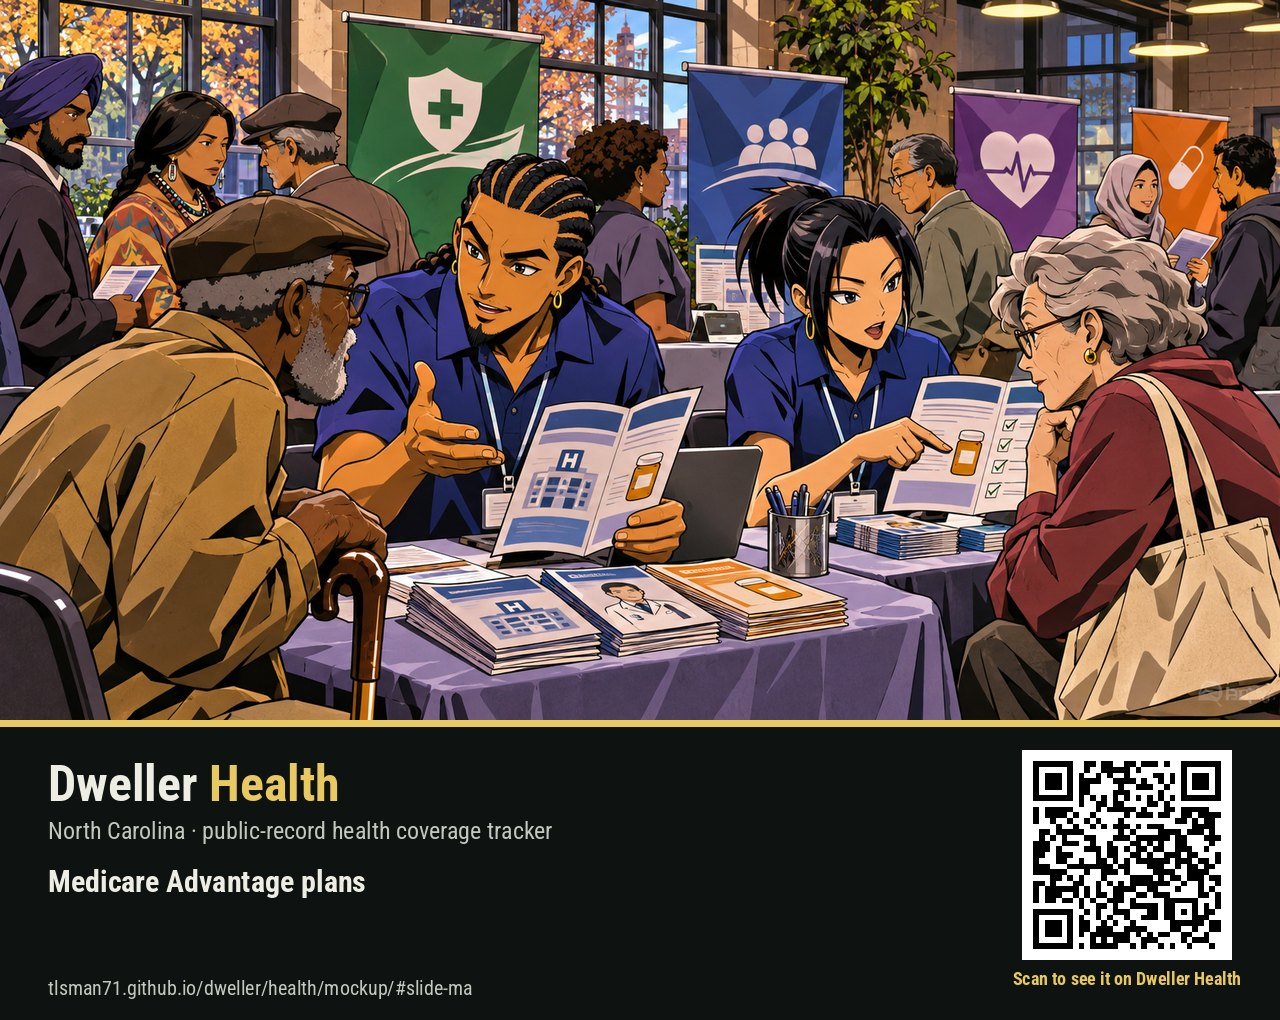
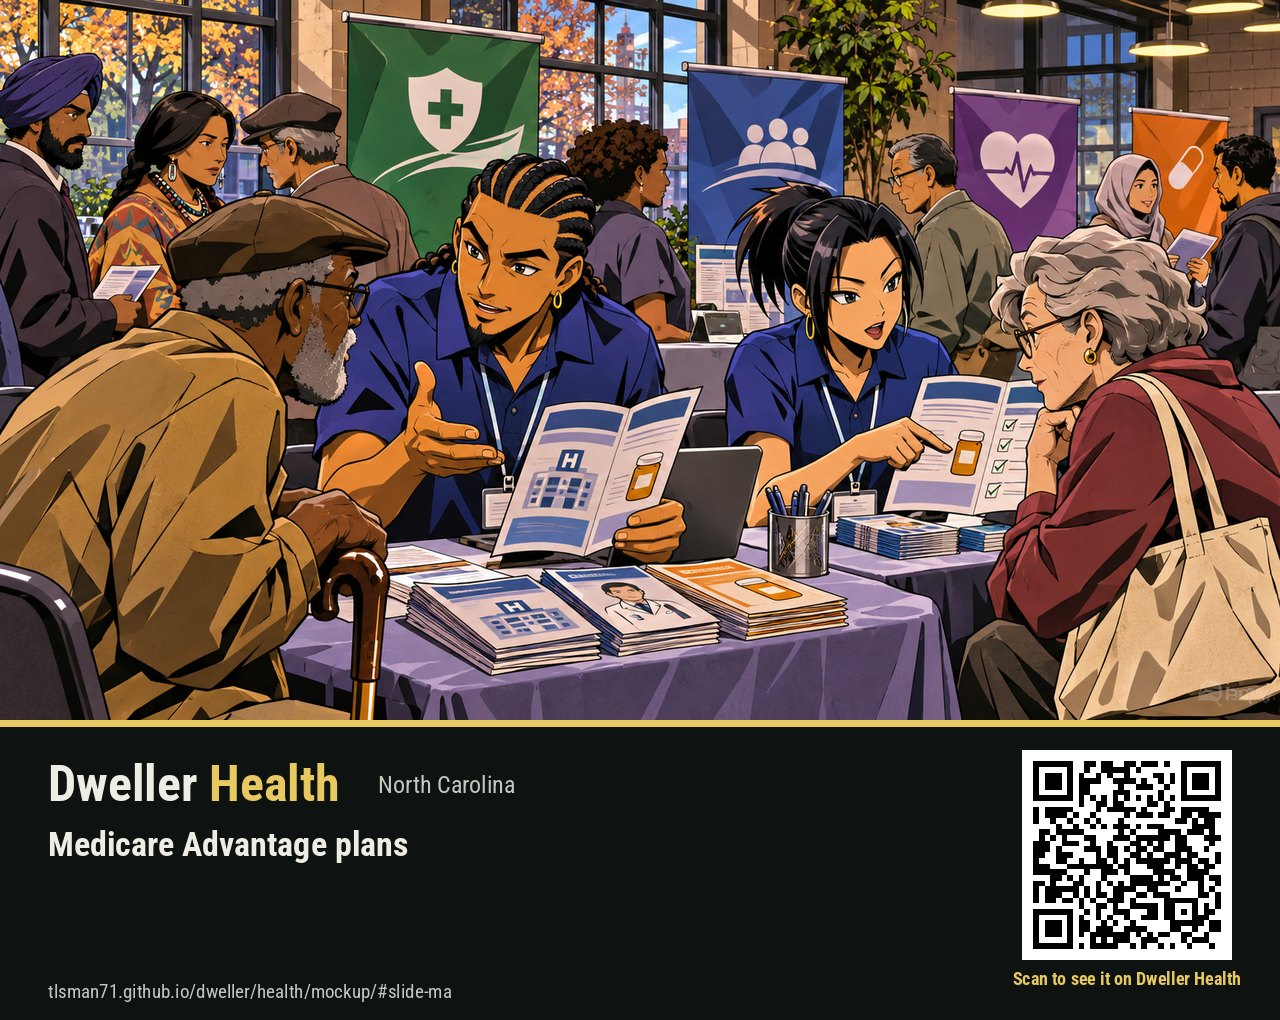
Dweller Health slides: short, punchy captions (headline + label + short source)
Tom, Nov 15 19:00: captions must be short and attention-grabbing. Each slide
now shows a one-line headline, its Fact/Estimate/Forecast label and a short
linked source; the scene sentence becomes the image's alt text. Share cards
carry the headline once approved.

Claude-Session: https://claude.ai/code/session_01N4HRhx3dSD52yBqj3MMuLm

Changed region(s): [[0.0312, 0.7598, 0.4375, 0.8814], [0.0312, 0.9422, 0.375, 1.0]]

diff --git a/health/drawings/drawings.js b/health/drawings/drawings.js
@@ -1,7 +1,8 @@
 // Dweller Health · node illustrations for the centerpiece slide show.
 // Only Tom approves (docs/node-illustrations-protocol.md in the claude.ai project).
 // image.status "approved"   -> the slide appears (image + share card are built by health/tools/build_drawings.py)
-// caption.status "approved" -> the caption (scene + sourced fact) appears; otherwise "Caption under review"
+// caption.status "approved" -> the caption appears: headline + Fact/Estimate/Forecast label + short source (link).
+//   "fact" keeps the full sourced sentence for reviewers; "scene" is the image's alt text; otherwise "Caption under review"
 // share_base: where shares and QR codes point; change it when Dweller Health gets its own domain, then rebuild.
 window.DH_DRAWINGS = {
  "share_base": "https://tlsman71.github.io/dweller/health/mockup/",
@@ -23,8 +24,11 @@ window.DH_DRAWINGS = {
     "review_id": "illus-node-medpac-v1"
    },
    "caption": {
-    "status": "waiting"
-   }
+    "status": "waiting",
+    "version": 2
+   },
+   "headline": "Advantage pay adds $11 billion to Part B premiums",
+   "source_short": "MedPAC, Mar 2026"
   },
   {
    "id": "hi",
@@ -42,8 +46,11 @@ window.DH_DRAWINGS = {
     "review_id": "illus-node-hi-v1"
    },
    "caption": {
-    "status": "waiting"
-   }
+    "status": "waiting",
+    "version": 2
+   },
+   "headline": "Part A pays in full until 2033. Then 89%.",
+   "source_short": "Medicare Trustees, Jun 2026"
   },
   {
    "id": "oig",
@@ -61,8 +68,11 @@ window.DH_DRAWINGS = {
     "review_id": "illus-node-oig-v1"
    },
    "caption": {
-    "status": "waiting"
-   }
+    "status": "waiting",
+    "version": 2
+   },
+   "headline": "Top 3 insurers: some of the highest rehab-care denial rates",
+   "source_short": "HHS Inspector General, Jun 2026"
   },
   {
    "id": "tax",
@@ -80,8 +90,11 @@ window.DH_DRAWINGS = {
     "review_id": "illus-node-tax-v1"
    },
    "caption": {
-    "status": "waiting"
-   }
+    "status": "waiting",
+    "version": 2
+   },
+   "headline": "Your paycheck funds Part A: 2.9%, split with your employer",
+   "source_short": "Medicare Trustees, 2026"
   },
   {
    "id": "benes",
@@ -99,8 +112,11 @@ window.DH_DRAWINGS = {
     "review_id": "illus-node-benes-v1"
    },
    "caption": {
-    "status": "waiting"
-   }
+    "status": "waiting",
+    "version": 2
+   },
+   "headline": "1 in 10 Advantage members lost their plan for 2026",
+   "source_short": "JAMA, 2026"
   },
   {
    "id": "smi",
@@ -118,8 +134,11 @@ window.DH_DRAWINGS = {
     "review_id": "illus-node-smi-v1"
    },
    "caption": {
-    "status": "waiting"
-   }
+    "status": "waiting",
+    "version": 2
+   },
+   "headline": "Taxes pay 73% of Part B and 81% of Part D",
+   "source_short": "Medicare Trustees, 2026"
   },
   {
    "id": "cms",
@@ -137,8 +156,11 @@ window.DH_DRAWINGS = {
     "review_id": "illus-node-cms-v1"
    },
    "caption": {
-    "status": "waiting"
-   }
+    "status": "waiting",
+    "version": 2
+   },
+   "headline": "Advantage costs Medicare $76 billion more than Original would",
+   "source_short": "MedPAC, Mar 2026"
   },
   {
    "id": "ma",
@@ -156,8 +178,11 @@ window.DH_DRAWINGS = {
     "review_id": "illus-node-ma-v1"
    },
    "caption": {
-    "status": "waiting"
-   }
+    "status": "waiting",
+    "version": 2
+   },
+   "headline": "34.9 million in Advantage: 55% of those eligible",
+   "source_short": "MedPAC, Mar 2026"
   },
   {
    "id": "unh",
@@ -175,8 +200,11 @@ window.DH_DRAWINGS = {
     "review_id": "illus-node-unh-v1"
    },
    "caption": {
-    "status": "waiting"
-   }
+    "status": "waiting",
+    "version": 2
+   },
+   "headline": "UnitedHealth: $22.4 billion in 2023 earnings",
+   "source_short": "UnitedHealth Group, Jan 2024"
   },
   {
    "id": "hum",
@@ -194,8 +222,11 @@ window.DH_DRAWINGS = {
     "review_id": "illus-node-hum-v1"
    },
    "caption": {
-    "status": "waiting"
-   }
+    "status": "waiting",
+    "version": 2
+   },
+   "headline": "Humana: 560,000 members had to find a new plan",
+   "source_short": "Humana, Sep 2024"
   },
   {
    "id": "cvs",
@@ -213,8 +244,11 @@ window.DH_DRAWINGS = {
     "review_id": "illus-node-cvs-v1"
    },
    "caption": {
-    "status": "waiting"
-   }
+    "status": "waiting",
+    "version": 2
+   },
+   "headline": "Aetna: Advantage members to drop by high single digits",
+   "source_short": "CVS Health, Feb 2025"
   },
   {
    "id": "cen",
@@ -232,8 +266,11 @@ window.DH_DRAWINGS = {
     "review_id": "illus-node-cen-v1"
    },
    "caption": {
-    "status": "waiting"
-   }
+    "status": "waiting",
+    "version": 2
+   },
+   "headline": "WellCare left 6 states: about 37,300 members",
+   "source_short": "Stephens, Aug 2024"
   },
   {
    "id": "prov",
@@ -251,8 +288,11 @@ window.DH_DRAWINGS = {
     "review_id": "illus-node-prov-v1"
    },
    "caption": {
-    "status": "waiting"
-   }
+    "status": "waiting",
+    "version": 2
+   },
+   "headline": "16% of health systems plan to drop an Advantage plan",
+   "source_short": "HFMA survey, 2024"
   },
   {
    "id": "left",
@@ -270,8 +310,11 @@ window.DH_DRAWINGS = {
     "review_id": "illus-node-left-v1"
    },
    "caption": {
-    "status": "waiting"
-   }
+    "status": "waiting",
+    "version": 2
+   },
+   "headline": "Left Advantage? Medicare then spent 27% more",
+   "source_short": "KFF, Dec 2024"
   },
   {
    "id": "inv",
@@ -289,8 +332,11 @@ window.DH_DRAWINGS = {
     "review_id": "illus-node-inv-v1"
    },
    "caption": {
-    "status": "waiting"
-   }
+    "status": "waiting",
+    "version": 2
+   },
+   "headline": "$14.8 billion back to UnitedHealth shareholders",
+   "source_short": "UnitedHealth Group, Jan 2024"
   },
   {
    "id": "congress",
@@ -308,8 +354,11 @@ window.DH_DRAWINGS = {
     "review_id": "illus-node-congress-v1"
    },
    "caption": {
-    "status": "waiting"
-   }
+    "status": "waiting",
+    "version": 2
+   },
+   "headline": "2003: passed the House by 5 votes, 220 to 215",
+   "source_short": "Congressional Research Service"
   },
   {
    "id": "trustees",
@@ -327,8 +376,11 @@ window.DH_DRAWINGS = {
     "review_id": "illus-node-trustees-v1"
    },
    "caption": {
-    "status": "waiting"
-   }
+    "status": "waiting",
+    "version": 2
+   },
+   "headline": "Part A's shortfall date moved up: mid-2033",
+   "source_short": "Medicare Trustees, Jun 2026"
   },
   {
    "id": "mma",
@@ -346,8 +398,11 @@ window.DH_DRAWINGS = {
     "review_id": "illus-node-mma-v1"
    },
    "caption": {
-    "status": "waiting"
-   }
+    "status": "waiting",
+    "version": 2
+   },
+   "headline": "2003: the law that created Medicare Advantage",
+   "source_short": "Public Law 108-173"
   },
   {
    "id": "r_kff",
@@ -365,8 +420,11 @@ window.DH_DRAWINGS = {
     "review_id": "illus-node-r_kff-v1"
    },
    "caption": {
-    "status": "waiting"
-   }
+    "status": "waiting",
+    "version": 2
+   },
+   "headline": "Advantage margins: $1,730 a member, double other markets",
+   "source_short": "KFF, Feb 2023"
   },
   {
    "id": "r_her",
@@ -384,8 +442,11 @@ window.DH_DRAWINGS = {
     "review_id": "illus-node-r_her-v1"
    },
    "caption": {
-    "status": "waiting"
-   }
+    "status": "waiting",
+    "version": 2
+   },
+   "headline": "Coding estimates: $10–15 billion a year in Advantage",
+   "source_short": "Health Economics Review, 2024"
   },
   {
    "id": "r_hfma",
@@ -403,8 +464,11 @@ window.DH_DRAWINGS = {
     "review_id": "illus-node-r_hfma-v1"
    },
    "caption": {
-    "status": "waiting"
-   }
+    "status": "waiting",
+    "version": 2
+   },
+   "headline": "19% of health systems already dropped an Advantage plan",
+   "source_short": "HFMA survey, Mar 2024"
   }
  ]
 };

diff --git a/health/mockup/index.html b/health/mockup/index.html
@@ -257,11 +257,12 @@ footer h3{font-family:var(--chalkfont);font-size:26px;color:var(--chalk);margin-
 .show-count{position:absolute;top:12px;left:12px;background:rgba(14,18,17,.82);border:1px solid var(--line);border-radius:999px;padding:4px 14px;font-size:17px;font-weight:700}
 .show-cap{padding:20px 24px 22px;background:var(--slate);border-top:2px solid var(--gold);display:grid;grid-template-columns:minmax(0,1fr) auto;gap:18px 24px;align-items:start}
 @media (max-width:760px){.show-cap{grid-template-columns:1fr}}
-.show-cap h3{font-family:var(--chalkfont);font-size:30px;line-height:1.1}
+.show-cap .eyebrow{margin:0 0 6px;font-size:17px;font-weight:700;color:var(--gold2);text-transform:uppercase;letter-spacing:.06em}
+.show-cap h3{font-family:var(--chalkfont);font-size:clamp(28px,3.2vw,40px);line-height:1.1}
 .show-cap .scene{margin:8px 0 0;color:var(--mute)}
 #pictures{scroll-margin-top:84px}
 .show-cap .sfact{margin:10px 0 0}
-.show-cap .src{font-size:17px;margin:8px 0 0;color:var(--mute)}
+.show-cap .src{font-size:17px;margin:12px 0 0;color:var(--mute);display:flex;flex-wrap:wrap;gap:10px;align-items:center}
 .show-cap .review{display:inline-block;margin-top:10px;font-size:17px;font-weight:700;color:var(--amber2);border:2px dashed #6b5222;border-radius:8px;padding:3px 12px}
 .show-actions{display:flex;flex-direction:column;gap:10px;min-width:220px}
 .show-dots{display:flex;flex-wrap:wrap;gap:8px;justify-content:center;padding:14px 10px 2px}
@@ -509,7 +510,7 @@ footer h3{font-family:var(--chalkfont);font-size:26px;color:var(--chalk);margin-
   function e(t){return String(t).replace(/[&<>"]/g,function(c){return{"&":"&amp;","<":"&lt;",">":"&gt;",'"':"&quot;"}[c]})}
   if(!S.length){frame.style.display="none";cap.className="show-empty";cap.innerHTML="Illustrations are on their way. Each one is checked against its source and approved before it appears here.";return}
   var imgsrc=function(s){return drafts&&s.image.status!=="approved"?"../drawings/draft/"+s.id+".webp":"../drawings/img/"+s.id+".webp"};
-  frame.innerHTML=S.map(function(s,k){return '<img src="'+imgsrc(s)+'" alt="'+e(s.caption.status==="approved"||drafts?s.scene:s.label)+'" data-k="'+k+'"'+(k?' loading="lazy"':'')+'>'}).join("")+
+  frame.innerHTML=S.map(function(s,k){return '<img src="'+imgsrc(s)+'" alt="'+e(s.scene)+'" data-k="'+k+'"'+(k?' loading="lazy"':'')+'>'}).join("")+
     '<span class="show-count" id="showcount"></span>'+(drafts?'<span class="draftbadge" id="draftbadge" hidden>Draft · not approved</span>':'')+
     '<button class="show-nav prev" type="button" aria-label="Previous picture">&#8249;</button><button class="show-nav next" type="button" aria-label="Next picture">&#8250;</button>';
   dots.innerHTML=S.map(function(s,k){return '<button type="button" aria-label="Picture '+(k+1)+': '+e(s.label)+'"></button>'}).join("");
@@ -521,7 +522,7 @@ footer h3{font-family:var(--chalkfont);font-size:26px;color:var(--chalk);margin-
     document.getElementById("showcount").textContent=(i+1)+" of "+S.length;
     var b=document.getElementById("draftbadge"); if(b)b.hidden=s.image.status==="approved";
     var ok=s.caption.status==="approved"||drafts;
-    cap.innerHTML='<div><h3>'+e(s.label)+'</h3>'+(ok?'<p class="scene">'+e(s.scene)+'</p><p class="sfact"><span class="kind k-'+e(s.kind)+'">'+e(s.kind)+'</span> '+e(s.fact)+'</p><p class="src">Source: <a href="'+e(s.source.url)+'" target="_blank" rel="noopener">'+e(s.source.label)+'</a></p>'+(drafts&&s.caption.status!=="approved"?'<span class="review">Caption draft · waiting for review</span>':''):'<span class="review">Caption under review</span>')+'</div>'+
+    cap.innerHTML='<div><p class="eyebrow">'+e(s.label)+'</p>'+(ok?'<h3>'+e(s.headline)+'</h3><p class="src"><span class="kind k-'+e(s.kind)+'">'+e(s.kind)+'</span> <a href="'+e(s.source.url)+'" target="_blank" rel="noopener">'+e(s.source_short)+'</a></p>'+(drafts&&s.caption.status!=="approved"?'<span class="review">Caption draft · waiting for review</span>':''):'<span class="review">Caption under review</span>')+'</div>'+
       '<div class="show-actions"><button class="btn gold" type="button" id="sharebtn">Share this picture</button><a class="btn" href="#money">See it on the money map</a></div>';
     document.getElementById("sharebtn").addEventListener("click",function(){share(s)});
     document.getElementById("sharepanel").hidden=true;

diff --git a/health/tools/build_drawings.py b/health/tools/build_drawings.py
@@ -55,19 +55,19 @@ def card(pic, s, url):
     x, y = 48, top + 34
     d.text((x, y), "Dweller", font=font(700, 50), fill=CHALK)
     d.text((x + d.textlength("Dweller ", font=font(700, 50)), y), "Health", font=font(700, 50), fill=GOLD)
-    d.text((x, y + 62), "North Carolina · public-record health coverage tracker", font=font(400, 24), fill=MUTE)
-    # caption (only if Tom approved it)
-    y2 = y + 110
+    d.text((x + 330, y + 16), "North Carolina", font=font(400, 24), fill=MUTE)
+    # caption (only if Tom approved it): short headline + label + short source
+    y2 = y + 70
     if s["caption"]["status"] == "approved":
-        kind = s["kind"]
-        d.text((x, y2), kind.upper(), font=font(700, 24), fill=KIND_COLOR.get(kind, CHALK))
-        lines = textwrap.wrap(s["fact"], 70)[:3]
-        if len(textwrap.wrap(s["fact"], 70)) > 3:
-            lines[-1] = lines[-1].rstrip(" .,;") + "…"
+        lines = textwrap.wrap(s["headline"], 44)[:2]
         for i, ln in enumerate(lines):
-            d.text((x + d.textlength(kind.upper() + "  ", font=font(700, 24)) if i == 0 else x, y2 + i * 32), ln, font=font(400, 26), fill=CHALK)
+            d.text((x, y2 + i * 44), ln, font=font(700, 38), fill=CHALK)
+        ky = y2 + len(lines) * 44 + 10
+        kind = s["kind"]
+        d.text((x, ky), kind.upper(), font=font(700, 22), fill=KIND_COLOR.get(kind, CHALK))
+        d.text((x + d.textlength(kind.upper() + "   ", font=font(700, 22)), ky), s["source_short"], font=font(400, 22), fill=MUTE)
     else:
-        d.text((x, y2), s["label"], font=font(700, 30), fill=CHALK)
+        d.text((x, y2), s["label"], font=font(700, 34), fill=CHALK)
     # QR + link
     q = qrcode.QRCode(border=2, box_size=8, error_correction=qrcode.constants.ERROR_CORRECT_M)
     q.add_data(url); q.make(fit=True)
@@ -75,7 +75,7 @@ def card(pic, s, url):
     c.paste(qi, (W - 48 - 210, top + 30))
     short = url.replace("https://", "")
     d.text((W - 48 - 105 - d.textlength("Scan to see it on Dweller Health", font=font(700, 18)) / 2, top + 248), "Scan to see it on Dweller Health", font=font(700, 18), fill=GOLD)
-    d.text((x, top + band - 44), short, font=font(400, 20), fill=MUTE)
+    d.text((x, top + band - 40), short, font=font(400, 19), fill=MUTE)
     return c
 
 
